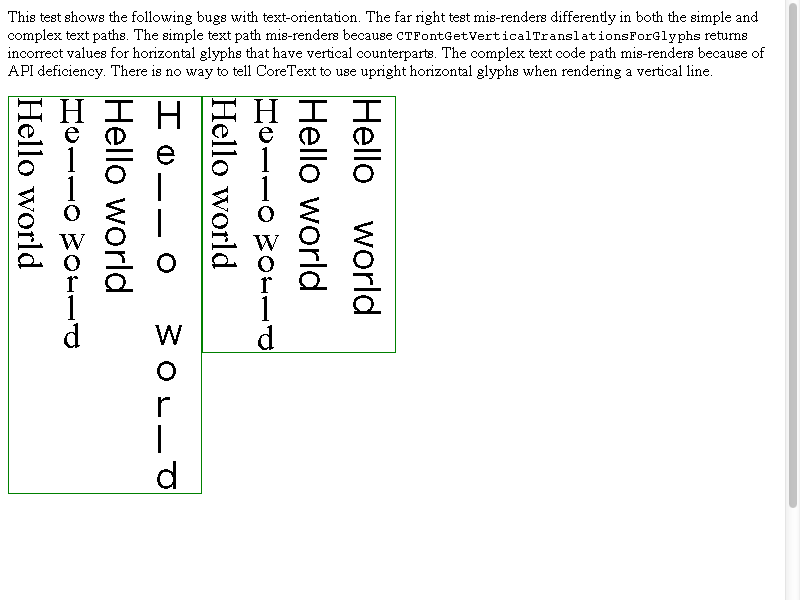
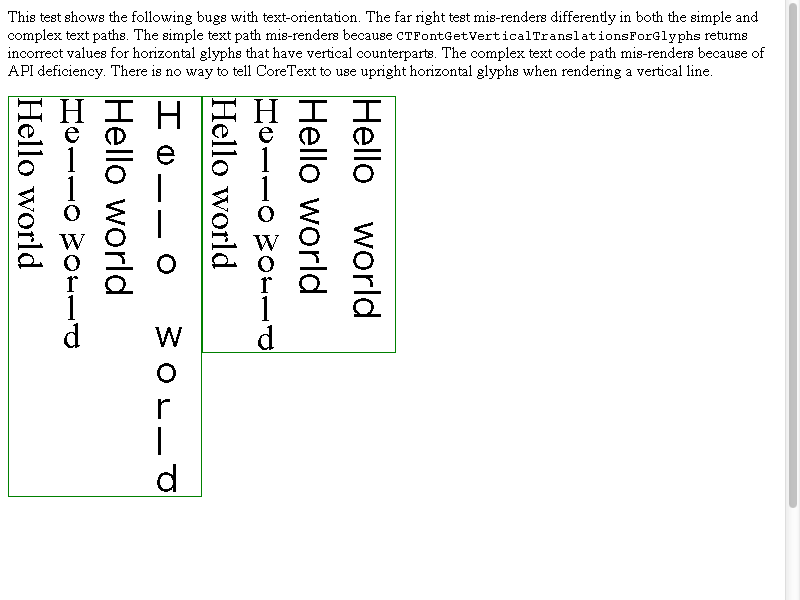
Cleanup mac specific TextLayout measurement helper
As far as my analysis goes the rebaselines are needed due to the different kerning behaviour. The textLayout based measurement returns kerned values when measuring substrings of a run. When not using textLayout, we create a new run and pass that to Font::width which then returns a value that is not kerned for only the last character in the run. The new behaviour is consistent with the behaviour on non-mac, thus I don't see an issue with changing this. Additionally,  RenderText::width and ::widthFromCache behave the same way, creating new runs for measurement.

BUG=329543

Review URL: https://codereview.chromium.org/110313003

git-svn-id: svn://svn.chromium.org/blink/trunk@164915 bbb929c8-8fbe-4397-9dbb-9b2b20218538

diff --git a/Source/core/rendering/line/BreakingContextInlineHeaders.h b/Source/core/rendering/line/BreakingContextInlineHeaders.h
@@ -44,23 +44,12 @@ using namespace Unicode;
 const unsigned cMaxLineDepth = 200;
 
 struct RenderTextInfo {
-    // Destruction of m_layout requires TextLayout to be a complete type, so the constructor and destructor are made non-inline to avoid compilation errors.
     RenderTextInfo();
     ~RenderTextInfo();
 
     RenderText* m_text;
-    OwnPtr<TextLayout> m_layout;
     LazyLineBreakIterator m_lineBreakIterator;
     const Font* m_font;
-
-    void createLayout(RenderText* renderText, float xPos, bool collapseWhiteSpace)
-    {
-#if OS(MACOSX)
-        m_layout = m_font->createLayoutForMacComplexText(RenderBlockFlow::constructTextRun(renderText, *m_font, renderText, renderText->style()), renderText->textLength(), xPos, collapseWhiteSpace);
-#else
-        m_layout = nullptr;
-#endif
-    }
 };
 
 class WordMeasurement {
@@ -705,15 +694,12 @@ ALWAYS_INLINE TextDirection textDirectionFromUnicode(WTF::Unicode::Direction dir
         || direction == WTF::Unicode::RightToLeftArabic ? RTL : LTR;
 }
 
-ALWAYS_INLINE float textWidth(RenderText* text, unsigned from, unsigned len, const Font& font, float xPos, bool isFixedPitch, WTF::Unicode::Direction direction, bool collapseWhiteSpace, HashSet<const SimpleFontData*>* fallbackFonts = 0, TextLayout* layout = 0)
+ALWAYS_INLINE float textWidth(RenderText* text, unsigned from, unsigned len, const Font& font, float xPos, bool isFixedPitch, WTF::Unicode::Direction direction, bool collapseWhiteSpace, HashSet<const SimpleFontData*>* fallbackFonts = 0)
 {
     TextDirection textDirection = textDirectionFromUnicode(direction);
     GlyphOverflow glyphOverflow;
     if (isFixedPitch || (!from && len == text->textLength()) || text->style()->hasTextCombine())
         return text->width(from, len, font, xPos, textDirection, fallbackFonts, &glyphOverflow);
-
-    if (layout)
-        return Font::width(*layout, from, len, fallbackFonts);
 
     TextRun run = RenderBlockFlow::constructTextRun(text, font, text, from, len, text->style(), textDirection);
     run.setCharactersLength(text->textLength() - from);
@@ -784,18 +770,14 @@ inline bool BreakingContext::handleText(WordMeasurements& wordMeasurements, bool
     if (m_renderTextInfo.m_text != renderText) {
         m_renderTextInfo.m_text = renderText;
         m_renderTextInfo.m_font = &font;
-        m_renderTextInfo.createLayout(renderText, m_width.currentWidth(), m_collapseWhiteSpace);
         m_renderTextInfo.m_lineBreakIterator.resetStringAndReleaseIterator(renderText->text(), style->locale());
-    } else if (m_renderTextInfo.m_layout && m_renderTextInfo.m_font != &font) {
+    } else if (m_renderTextInfo.m_font != &font) {
         m_renderTextInfo.m_font = &font;
-        m_renderTextInfo.createLayout(renderText, m_width.currentWidth(), m_collapseWhiteSpace);
     }
 
-    TextLayout* textLayout = m_renderTextInfo.m_layout.get();
-
-    // Non-zero only when kerning is enabled and TextLayout isn't used, in which case we measure
+    // Non-zero only when kerning is enabled, in which case we measure
     // words with their trailing space, then subtract its width.
-    float wordTrailingSpaceWidth = (font.typesettingFeatures() & Kerning) && !textLayout ?
+    float wordTrailingSpaceWidth = (font.typesettingFeatures() & Kerning) ?
         font.width(RenderBlockFlow::constructTextRun(
             renderText, font, &space, 1, style,
             textDirectionFromUnicode(m_resolver.position().direction()))) + wordSpacing
@@ -822,7 +804,7 @@ inline bool BreakingContext::handleText(WordMeasurements& wordMeasurements, bool
         if ((breakAll || breakWords) && !midWordBreak) {
             wrapW += charWidth;
             bool midWordBreakIsBeforeSurrogatePair = U16_IS_LEAD(c) && m_current.offset() + 1 < renderText->textLength() && U16_IS_TRAIL((*renderText)[m_current.offset() + 1]);
-            charWidth = textWidth(renderText, m_current.offset(), midWordBreakIsBeforeSurrogatePair ? 2 : 1, font, m_width.committedWidth() + wrapW, isFixedPitch, m_resolver.position().direction(), m_collapseWhiteSpace, 0, textLayout);
+            charWidth = textWidth(renderText, m_current.offset(), midWordBreakIsBeforeSurrogatePair ? 2 : 1, font, m_width.committedWidth() + wrapW, isFixedPitch, m_resolver.position().direction(), m_collapseWhiteSpace, 0);
             midWordBreak = m_width.committedWidth() + wrapW + charWidth > m_width.availableWidth();
         }
 
@@ -858,9 +840,9 @@ inline bool BreakingContext::handleText(WordMeasurements& wordMeasurements, bool
 
             float additionalTmpW;
             if (wordTrailingSpaceWidth && c == ' ')
-                additionalTmpW = textWidth(renderText, lastSpace, m_current.offset() + 1 - lastSpace, font, m_width.currentWidth(), isFixedPitch, m_resolver.position().direction(), m_collapseWhiteSpace, &wordMeasurement.fallbackFonts, textLayout) - wordTrailingSpaceWidth;
+                additionalTmpW = textWidth(renderText, lastSpace, m_current.offset() + 1 - lastSpace, font, m_width.currentWidth(), isFixedPitch, m_resolver.position().direction(), m_collapseWhiteSpace, &wordMeasurement.fallbackFonts) - wordTrailingSpaceWidth;
             else
-                additionalTmpW = textWidth(renderText, lastSpace, m_current.offset() - lastSpace, font, m_width.currentWidth(), isFixedPitch, m_resolver.position().direction(), m_collapseWhiteSpace, &wordMeasurement.fallbackFonts, textLayout);
+                additionalTmpW = textWidth(renderText, lastSpace, m_current.offset() - lastSpace, font, m_width.currentWidth(), isFixedPitch, m_resolver.position().direction(), m_collapseWhiteSpace, &wordMeasurement.fallbackFonts);
 
             wordMeasurement.width = additionalTmpW + wordSpacingForWordMeasurement;
             additionalTmpW += lastSpaceWordSpacing;
@@ -883,7 +865,7 @@ inline bool BreakingContext::handleText(WordMeasurements& wordMeasurements, bool
                 // as candidate width for this line.
                 bool lineWasTooWide = false;
                 if (m_width.fitsOnLine() && m_currentCharacterIsSpace && m_currentStyle->breakOnlyAfterWhiteSpace() && !midWordBreak) {
-                    float charWidth = textWidth(renderText, m_current.offset(), 1, font, m_width.currentWidth(), isFixedPitch, m_resolver.position().direction(), m_collapseWhiteSpace, &wordMeasurement.fallbackFonts, textLayout) + (applyWordSpacing ? wordSpacing : 0);
+                    float charWidth = textWidth(renderText, m_current.offset(), 1, font, m_width.currentWidth(), isFixedPitch, m_resolver.position().direction(), m_collapseWhiteSpace, &wordMeasurement.fallbackFonts) + (applyWordSpacing ? wordSpacing : 0);
                     // Check if line is too big even without the extra space
                     // at the end of the line. If it is not, do nothing.
                     // If the line needs the extra whitespace to be too long,
@@ -1014,7 +996,7 @@ inline bool BreakingContext::handleText(WordMeasurements& wordMeasurements, bool
     wordMeasurement.renderer = renderText;
 
     // IMPORTANT: current.m_pos is > length here!
-    float additionalTmpW = m_ignoringSpaces ? 0 : textWidth(renderText, lastSpace, m_current.offset() - lastSpace, font, m_width.currentWidth(), isFixedPitch, m_resolver.position().direction(), m_collapseWhiteSpace, &wordMeasurement.fallbackFonts, textLayout);
+    float additionalTmpW = m_ignoringSpaces ? 0 : textWidth(renderText, lastSpace, m_current.offset() - lastSpace, font, m_width.currentWidth(), isFixedPitch, m_resolver.position().direction(), m_collapseWhiteSpace, &wordMeasurement.fallbackFonts);
     wordMeasurement.startOffset = lastSpace;
     wordMeasurement.endOffset = m_current.offset();
     wordMeasurement.width = m_ignoringSpaces ? 0 : additionalTmpW + wordSpacingForWordMeasurement;

diff --git a/Source/platform/fonts/mac/ComplexTextController.cpp b/Source/platform/fonts/mac/ComplexTextController.cpp
@@ -37,65 +37,6 @@ using namespace std;
 
 namespace WebCore {
 
-class TextLayout {
-public:
-    static bool isNeeded(const TextRun& run, const Font& font)
-    {
-        return font.codePath(run) == ComplexPath;
-    }
-
-    TextLayout(const TextRun& run, unsigned textLength, const Font& font, float xPos)
-        : m_font(font)
-        , m_run(constructTextRun(run, textLength, font, xPos))
-        , m_controller(adoptPtr(new ComplexTextController(&m_font, m_run, true)))
-    {
-    }
-
-    float width(unsigned from, unsigned len, HashSet<const SimpleFontData*>* fallbackFonts)
-    {
-        m_controller->advance(from, 0, ByWholeGlyphs, fallbackFonts);
-        float beforeWidth = m_controller->runWidthSoFar();
-        if (m_font.wordSpacing() && from && Font::treatAsSpace(m_run[from]))
-            beforeWidth += m_font.wordSpacing();
-        m_controller->advance(from + len, 0, ByWholeGlyphs, fallbackFonts);
-        float afterWidth = m_controller->runWidthSoFar();
-        return afterWidth - beforeWidth;
-    }
-
-private:
-    static TextRun constructTextRun(const TextRun& textRun, unsigned textLength, const Font& font, float xPos)
-    {
-        TextRun run = textRun;
-        run.setCharactersLength(textLength);
-        ASSERT(run.charactersLength() >= run.length());
-
-        run.setXPos(xPos);
-        return run;
-    }
-
-    // ComplexTextController has only references to its Font and TextRun so they must be kept alive here.
-    Font m_font;
-    TextRun m_run;
-    OwnPtr<ComplexTextController> m_controller;
-};
-
-PassOwnPtr<TextLayout> Font::createLayoutForMacComplexText(const TextRun& run, unsigned textLength, float xPos, bool collapseWhiteSpace) const
-{
-    if (!collapseWhiteSpace || !TextLayout::isNeeded(run, *this))
-        return nullptr;
-    return adoptPtr(new TextLayout(run, textLength, *this, xPos));
-}
-
-void Font::deleteLayout(TextLayout* layout)
-{
-    delete layout;
-}
-
-float Font::width(TextLayout& layout, unsigned from, unsigned len, HashSet<const SimpleFontData*>* fallbackFonts)
-{
-    return layout.width(from, len, fallbackFonts);
-}
-
 static inline CGFloat roundCGFloat(CGFloat f)
 {
     if (sizeof(CGFloat) == sizeof(float))

diff --git a/Source/platform/fonts/Font.h b/Source/platform/fonts/Font.h
@@ -53,7 +53,6 @@ class FontPlatformData;
 class FontSelector;
 class GlyphBuffer;
 class GraphicsContext;
-class TextLayout;
 class TextRun;
 struct TextRunPaintInfo;
 
@@ -104,10 +103,6 @@ public:
 
     float width(const TextRun&, HashSet<const SimpleFontData*>* fallbackFonts = 0, GlyphOverflow* = 0) const;
     float width(const TextRun&, int& charsConsumed, String& glyphName) const;
-
-    PassOwnPtr<TextLayout> createLayoutForMacComplexText(const TextRun&, unsigned textLength, float xPos, bool collapseWhiteSpace) const;
-    static void deleteLayout(TextLayout*);
-    static float width(TextLayout&, unsigned from, unsigned len, HashSet<const SimpleFontData*>* fallbackFonts = 0);
 
     int offsetForPosition(const TextRun&, float position, bool includePartialGlyphs) const;
     FloatRect selectionRectForText(const TextRun&, const FloatPoint&, int h, int from = 0, int to = -1) const;
@@ -328,14 +323,6 @@ inline float Font::tabWidth(const SimpleFontData& fontData, unsigned tabSize, fl
     float tabWidth = tabSize * fontData.spaceWidth() + letterSpacing();
     return tabWidth - fmodf(position, tabWidth);
 }
-
-}
-
-namespace WTF {
-
-template <> struct PLATFORM_EXPORT OwnedPtrDeleter<WebCore::TextLayout> {
-    static void deletePtr(WebCore::TextLayout*);
-};
 
 }
 

diff --git a/Source/platform/fonts/Font.cpp b/Source/platform/fonts/Font.cpp
@@ -34,16 +34,6 @@
 using namespace WTF;
 using namespace Unicode;
 
-namespace WTF {
-
-// allow compilation of OwnPtr<TextLayout> in source files that don't have access to the TextLayout class definition
-void OwnedPtrDeleter<WebCore::TextLayout>::deletePtr(WebCore::TextLayout* ptr)
-{
-    WebCore::Font::deleteLayout(ptr);
-}
-
-}
-
 namespace WebCore {
 
 const uint8_t Font::s_roundingHackCharacterTable[256] = {
@@ -242,26 +232,6 @@ float Font::width(const TextRun& run, int& charsConsumed, String& glyphName) con
     glyphName = "";
     return width(run);
 }
-
-#if !OS(MACOSX)
-
-PassOwnPtr<TextLayout> Font::createLayoutForMacComplexText(const TextRun&, unsigned, float, bool) const
-{
-    ASSERT_NOT_REACHED();
-    return nullptr;
-}
-
-void Font::deleteLayout(TextLayout*)
-{
-}
-
-float Font::width(TextLayout&, unsigned, unsigned, HashSet<const SimpleFontData*>*)
-{
-    ASSERT_NOT_REACHED();
-    return 0;
-}
-
-#endif
 
 FloatRect Font::selectionRectForText(const TextRun& run, const FloatPoint& point, int h, int from, int to) const
 {

diff --git a/Source/core/rendering/RenderBlock.h b/Source/core/rendering/RenderBlock.h
@@ -50,7 +50,6 @@ struct BidiRun;
 struct PaintInfo;
 class LineInfo;
 class RenderRubyRun;
-class TextLayout;
 class WordMeasurement;
 
 template <class Iterator, class Run> class BidiResolver;
